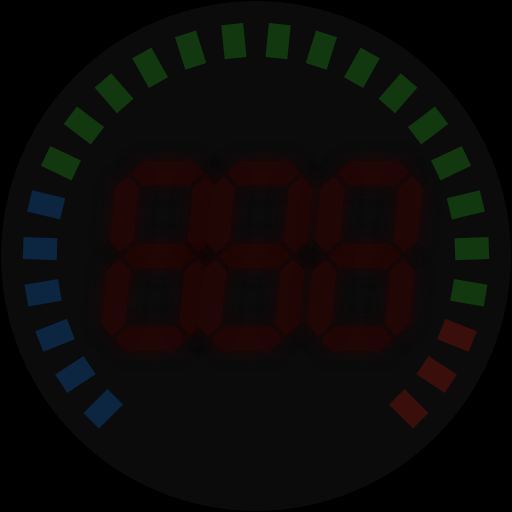
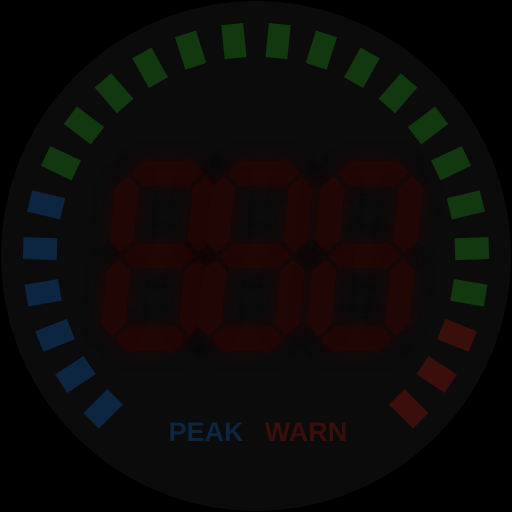
PEAK and WARN lights on every round gauge (#21)
- screen.html: two indicator lights in the gap at the bottom of the LED ring, under the label.
  PEAK (blue) lights for 1.5 s when the reading sets a new high since the ignition came on, in the
  top 40 % of the scale and at least 1 % of the scale above the last one, so a warming engine or
  cruising doesn't keep it lit. WARN (red) is on while warning() is true (overboost, too hot, low
  fuel) and, on the tachometer, from the shift point. Both light during the start-up test, follow
  night dimming (drawn before the dim overlay) and are off during the shut-down sweep. The fuel
  gauge has WARN only, centred. cfg.indicators = 0 turns them off.
- The unlit lights are printed on the faces (dark blue / dark red text; on the silver version a
  dark window in the faceplate, like the LEDs). All eight face textures re-baked.
- render_demo_gif.py: the row is as wide as the number of gauges; docs/demo-sweep.gif re-rendered.
- README and CHANGELOG.

Claude-Session: https://claude.ai/code/session_01K5KayftLCWnPDCzju16QUq

Changed region(s): [[0.5, 0.8125, 0.6875, 0.875], [0.3125, 0.8125, 0.4688, 0.875]]

diff --git a/vehicles/common/pillar_pod_gauges/screen.html b/vehicles/common/pillar_pod_gauges/screen.html
@@ -53,6 +53,7 @@ var cfg = {
   nightBrightness: 0.25, // display brightness with the headlights on (1 = no dimming)
   bootTime: 1.3,      // seconds of start-up sweep when the ignition comes on
   shutdownSweep: 1,   // 1 = sweep the LED ring up and down and fade out when the ignition is switched off
+  indicators: 1,      // 1 = PEAK and WARN lights under the title: PEAK when a new peak is set, WARN past the warning limit
   printedDigits: 1    // 1 = the unlit "8" segments are printed in the face texture; 0 = this page draws them
                       // (the EGT face, whose digit layout changes between 3 digits in deg C and 4 in deg F)
 };
@@ -118,7 +119,19 @@ var TITLE_Y = DY + DH + 52;   // baseline of the title (BOOST, OIL TEMP ...), al
 var S4 = 0.8, GAP4 = 10, TOTAL4 = DW * S4 * 4 + GAP4 * 3;
 var DX4 = [0, 1, 2, 3].map(function (k) { return CX - TOTAL4 / 2 + 4 + k * (DW * S4 + GAP4); });
 var DY4 = DY + DH * (1 - S4) / 2;
-var nDig = 3, DX = DX3, DS = 1, DYs = DY;  // active layout: digit count, x positions, scale, top
+var nDig = 3, DX = DX3, DS = 1, DYs = DY;
+// PEAK and WARN indicator lights, in the gap at the bottom of the LED ring under the title
+var IND_Y = TITLE_Y + 50, IND_DX = 50, IND_FONT = "bold 27px Arial, Helvetica, sans-serif";
+var PEAK_COL = "#3aa8ff", WARN_COL = "#ff2a1a";
+function hasPeakLight() { return cfg.indicators > 0 && cfg.warnLow <= 0; }   // a fuel gauge has no peak to show
+function warnX() { return hasPeakLight() ? CX + IND_DX : CX; }                  // WARN alone is centred
+function drawIndicator(g, label, x, col, glow) {
+  g.save();
+  g.font = IND_FONT; g.textAlign = "center"; g.fillStyle = col;
+  if (glow) { g.shadowColor = col; g.shadowBlur = 14; }
+  g.fillText(label, x, IND_Y);
+  g.restore();
+}  // active layout: digit count, x positions, scale, top
 function setDigits(n) {
   nDig = n; DX = n === 4 ? DX4 : DX3; DS = n === 4 ? S4 : 1; DYs = n === 4 ? DY4 : DY;
 }
@@ -131,7 +144,7 @@ function unlitDigits(g) {                        // the dark "8"s behind the lit
 }
 
 // ---- pre-rendered layers: everything expensive (glow) is drawn once ----
-var bgOn, bgOff, ledSprites = [], ledSpritesRed = [], digitSprites = {};
+var bgOn, bgOff, ledSprites = [], ledSpritesRed = [], digitSprites = {}, indSprites = {};
 
 function zeroLed() {     // index of the first LED above zero (0 when there is no vacuum zone)
   if (typeof cfg.zeroLed === "number") return cfg.zeroLed;   // fixed, so it matches the printed faceplate
@@ -210,6 +223,14 @@ function buildStaticFace(white) {
     drawLed(g, i, isRed(i) ? "#3a0f0b" : (i < z ? "#0c2540" : "#12380f"), false);   // unlit LEDs
   }
   if (cfg.printedDigits) for (var d = 0; d < 3; d++) drawDigit(g, "8", DX3[d], DY, "#210606", null);   // unlit segments
+  if (cfg.indicators > 0) {                       // unlit PEAK and WARN lights
+    var marks = [["WARN", warnX(), "#3a0f0b"]];
+    if (hasPeakLight()) marks.unshift(["PEAK", CX - IND_DX, "#0c2540"]);
+    marks.forEach(function (m) {
+      if (white) { g.fillStyle = "#060606"; g.fillRect(m[1] - 42, IND_Y - 27, 84, 35); }   // dark window in the faceplate
+      drawIndicator(g, m[0], m[1], m[2], false);
+    });
+  }
   g.shadowBlur = 0;
   return c;
 }
@@ -236,6 +257,13 @@ function buildLayers() {
     drawDigit(dg, ch, PAD + 8, PAD, RED, null);
     digitSprites[ch] = dc;
   }
+  indSprites = {};
+  [["PEAK", CX - IND_DX, PEAK_COL], ["WARN", warnX(), WARN_COL]].forEach(function (d) {
+    var ic = layer(140, 70), ig = ic.getContext("2d");
+    ig.translate(70 - d[1], 50 - IND_Y);
+    drawIndicator(ig, d[0], d[1], d[2], true);
+    indSprites[d[0]] = {img: ic, x: d[1] - 70, y: IND_Y - 50};
+  });
   var pc = layer(60, 60), pg = pc.getContext("2d");
   pg.fillStyle = RED; pg.shadowColor = RED; pg.shadowBlur = 16;
   pg.beginPath(); pg.arc(30, 30, 13, 0, Math.PI * 2); pg.fill();
@@ -257,6 +285,9 @@ var shifting = false;    // engine speed is at the shift point
 var ambient = 1;         // 1 = daylight .. 0 = night (from the mod's ambient light module)
 var runPeak = -1e9;      // highest value of the current pull
 var storedPeak = -1e9;   // highest value since the car was spawned
+var sesPeak = -1e9;      // highest value since the ignition came on (for the PEAK light)
+var peakLitT = 0;        // seconds the PEAK light stays on
+var overRev = false;     // tachometer: engine speed at or past the shift point (lights WARN)
 var offBoost = 0;        // seconds spent back at/below zero
 var recallT = -1;        // >= 0 while the peak is being shown
 var recallVal = 0;
@@ -376,12 +407,21 @@ function render() {
   var shiftOn = powered && !booting && shifting;
   var shiftPhase = shiftOn ? Math.floor(clock * 10) % 2 : 0;
   var cold = powered && !booting && isTemp() && cfg.coldBelow > 0 && target < cfg.coldBelow;
+  // indicator lights: both on during the start-up test, like the digits
+  var peakOn = false, warnOn = false;
+  if (cfg.indicators > 0) {
+    if (booting) { peakOn = hasPeakLight() && digitsOn; warnOn = digitsOn; }
+    else if (powered) {
+      peakOn = peakLitT > 0;
+      warnOn = warning(arcVal) || (cfg.source === "rpm" && overRev);
+    }
+  }
   // brightness: headlights on -> night level; otherwise follow the ambient light
   var dim = 1;
   if (powered || shutting) dim = lights > 0 ? cfg.nightBrightness : cfg.nightBrightness + (1 - cfg.nightBrightness) * ambient;
   var key = (powered ? "1" : "0") + Math.round(pos * 25) + txt + dot + peak + (digitsOn ? "d" : "x") + (ledsOn ? "l" : "o") +
             (recalling ? "r" : "") + Math.round(dim * 50) + (shiftOn ? "s" + shiftPhase : "") + (cold ? "c" : "") +
-            (shutting ? "o" + Math.round(u * 60) : "");
+            (shutting ? "o" + Math.round(u * 60) : "") + (peakOn ? "P" : "") + (warnOn ? "W" : "");
   if (key === lastKey) return;                  // nothing visible changed
   lastKey = key;
 
@@ -423,6 +463,8 @@ function render() {
     if (dot >= 0) ctx.drawImage(digitSprites["."], DX[dot] + DW + (dot === 0 ? 9 : 12) - 30, DY + DH + 1 - 30);
     ctx.globalAlpha = 1;
   }
+  if (peakOn) { var pk = indSprites.PEAK; ctx.drawImage(pk.img, pk.x, pk.y); }
+  if (warnOn) { var wn = indSprites.WARN; ctx.drawImage(wn.img, wn.x, wn.y); }
   if (recalling) {                              // swap the title for "PEAK"
     ctx.fillStyle = "#000"; ctx.fillRect(CX - 120, TITLE_Y - 36, 240, 46);
     ctx.fillStyle = "#ffb300"; ctx.textAlign = "center";
@@ -443,7 +485,7 @@ function tick() {
   lastT = now;
   clock += dt;
 
-  if (powered && !wasPowered) { bootT = 0; offT = -1; arcVal = 0; digitVal = 0; peakPos = 0; }
+  if (powered && !wasPowered) { bootT = 0; offT = -1; arcVal = 0; digitVal = 0; peakPos = 0; sesPeak = -1e9; peakLitT = 0; }
   // ignition switched off after running a while: shut-down sweep (not after a reset, and not when the
   // engine just stalls, since the ignition stays on then)
   if (!powered && wasPowered && cfg.shutdownSweep > 0 && onT > 0.5 && quietT <= 0) {
@@ -473,6 +515,14 @@ function tick() {
     }
     if (recallT >= 0) { recallT += dt; if (recallT >= cfg.recallTime) recallT = -1; }
   } else { recallT = -1; }
+
+  // PEAK light: comes on for a moment whenever the reading sets a new high for this drive in the top
+  // part of the scale (so a warming engine or idling doesn't keep it lit)
+  peakLitT = Math.max(0, peakLitT - dt);
+  if (hasPeakLight() && powered && bootT < 0 && offT < 0) {
+    var span = effMax() - cfg.minValue, top = cfg.minValue + span * 0.6;
+    if (arcVal >= top && arcVal > sesPeak + span * 0.01) { sesPeak = arcVal; peakLitT = 1.5; }
+  }
 
   // peak hold: follows the arc up, waits, then falls back
   var pos = (powered && bootT < 0) ? ledPos(arcVal) : 0;
@@ -531,6 +581,7 @@ function updateData(data) {
   shifting = (cfg.source === "boost" || cfg.source === "rpm") && cfg.shiftLight > 0 && !stopped && maxRpm > 0 && rpm >= maxRpm * cfg.shiftAt;
   if (cfg.source === "rpm") {
     target = stopped ? 0 : rpm;
+    overRev = !stopped && maxRpm > 0 && rpm >= maxRpm * cfg.shiftAt;
     if (maxRpm !== autoRpm) { autoRpm = maxRpm; lastKey = ""; }
   }
   if (cfg.source === "oiltemp") target = Number(e.oiltemp) || 0;

diff --git a/tools/render_demo_gif.py b/tools/render_demo_gif.py
@@ -109,7 +109,7 @@ async def render(root, out_path):
                 tt = t + k / (FPS * sub)
                 for pg, _ in tabs:
                     await pg.evaluate("([d, ms]) => { window.__t = ms; updateData(d); }", [state(tt), 1000 + tt * 1000])
-            row = Image.new("RGB", (SIZE * 2 + GAP * 3, SIZE + GAP * 2), BG)
+            row = Image.new("RGB", (SIZE * len(tabs) + GAP * (len(tabs) + 1), SIZE + GAP * 2), BG)
             for j, (pg, printed) in enumerate(tabs):
                 shot = await pg.screenshot(type="png")
                 emissive = Image.open(io.BytesIO(shot)).convert("RGB")

diff --git a/CHANGELOG.md b/CHANGELOG.md
@@ -7,6 +7,12 @@
   limit, with the last three (red) LEDs past it, and the digits show thousands (6.8 = 6800 rpm). The
   whole ring flashes red at the shift point. Tuning → Gauges has the shift light on/off, the RPM it
   starts at (96 % of the limit by default) and an optional fixed scale maximum.
+- **PEAK and WARN lights** on every round gauge, under the label. PEAK (blue) lights for 1.5 s
+  whenever the reading sets a new high for the drive in the top 40 % of the scale, so a warming
+  engine or cruising doesn't keep it on. WARN (red) stays on while the reading is past the warning
+  limit (overboost, oil, coolant or exhaust too hot, low fuel), and on the tachometer from the shift
+  point. Both light up with the start-up test. The fuel gauge has WARN only. The unlit lights are
+  printed on the faces, which were re-baked.
 
 ### Changed
 - **Only automatic mounting.** The fixed mountings (one part per interior, side and finish for the

diff --git a/README.md b/README.md
@@ -46,6 +46,11 @@ the **Lower Gauge** and **Upper Gauge** positions. Each position can hold any ga
 | Fuel level | Fuel left, with a low-fuel warning |
 | Tachometer | Engine speed in thousands (6.8 = 6800 rpm), scaled to the engine's rev limit, with a shift light |
 
+Under the label, a blue **PEAK** light comes on for a moment whenever the reading sets a new high
+for the drive (in the top part of the scale), and a red **WARN** light stays on while it's past the
+warning limit: overboost, overheating, low fuel, or the shift point on the tachometer. The fuel gauge
+has only WARN.
+
 Every gauge comes as **Automatic Mounting**, in black or in silver with a white face. It finds its
 own place: on the A-pillar trim, on the bare pillar of a stripped or race interior, or on the roll
 cage bar, for left- or right-hand drive.
